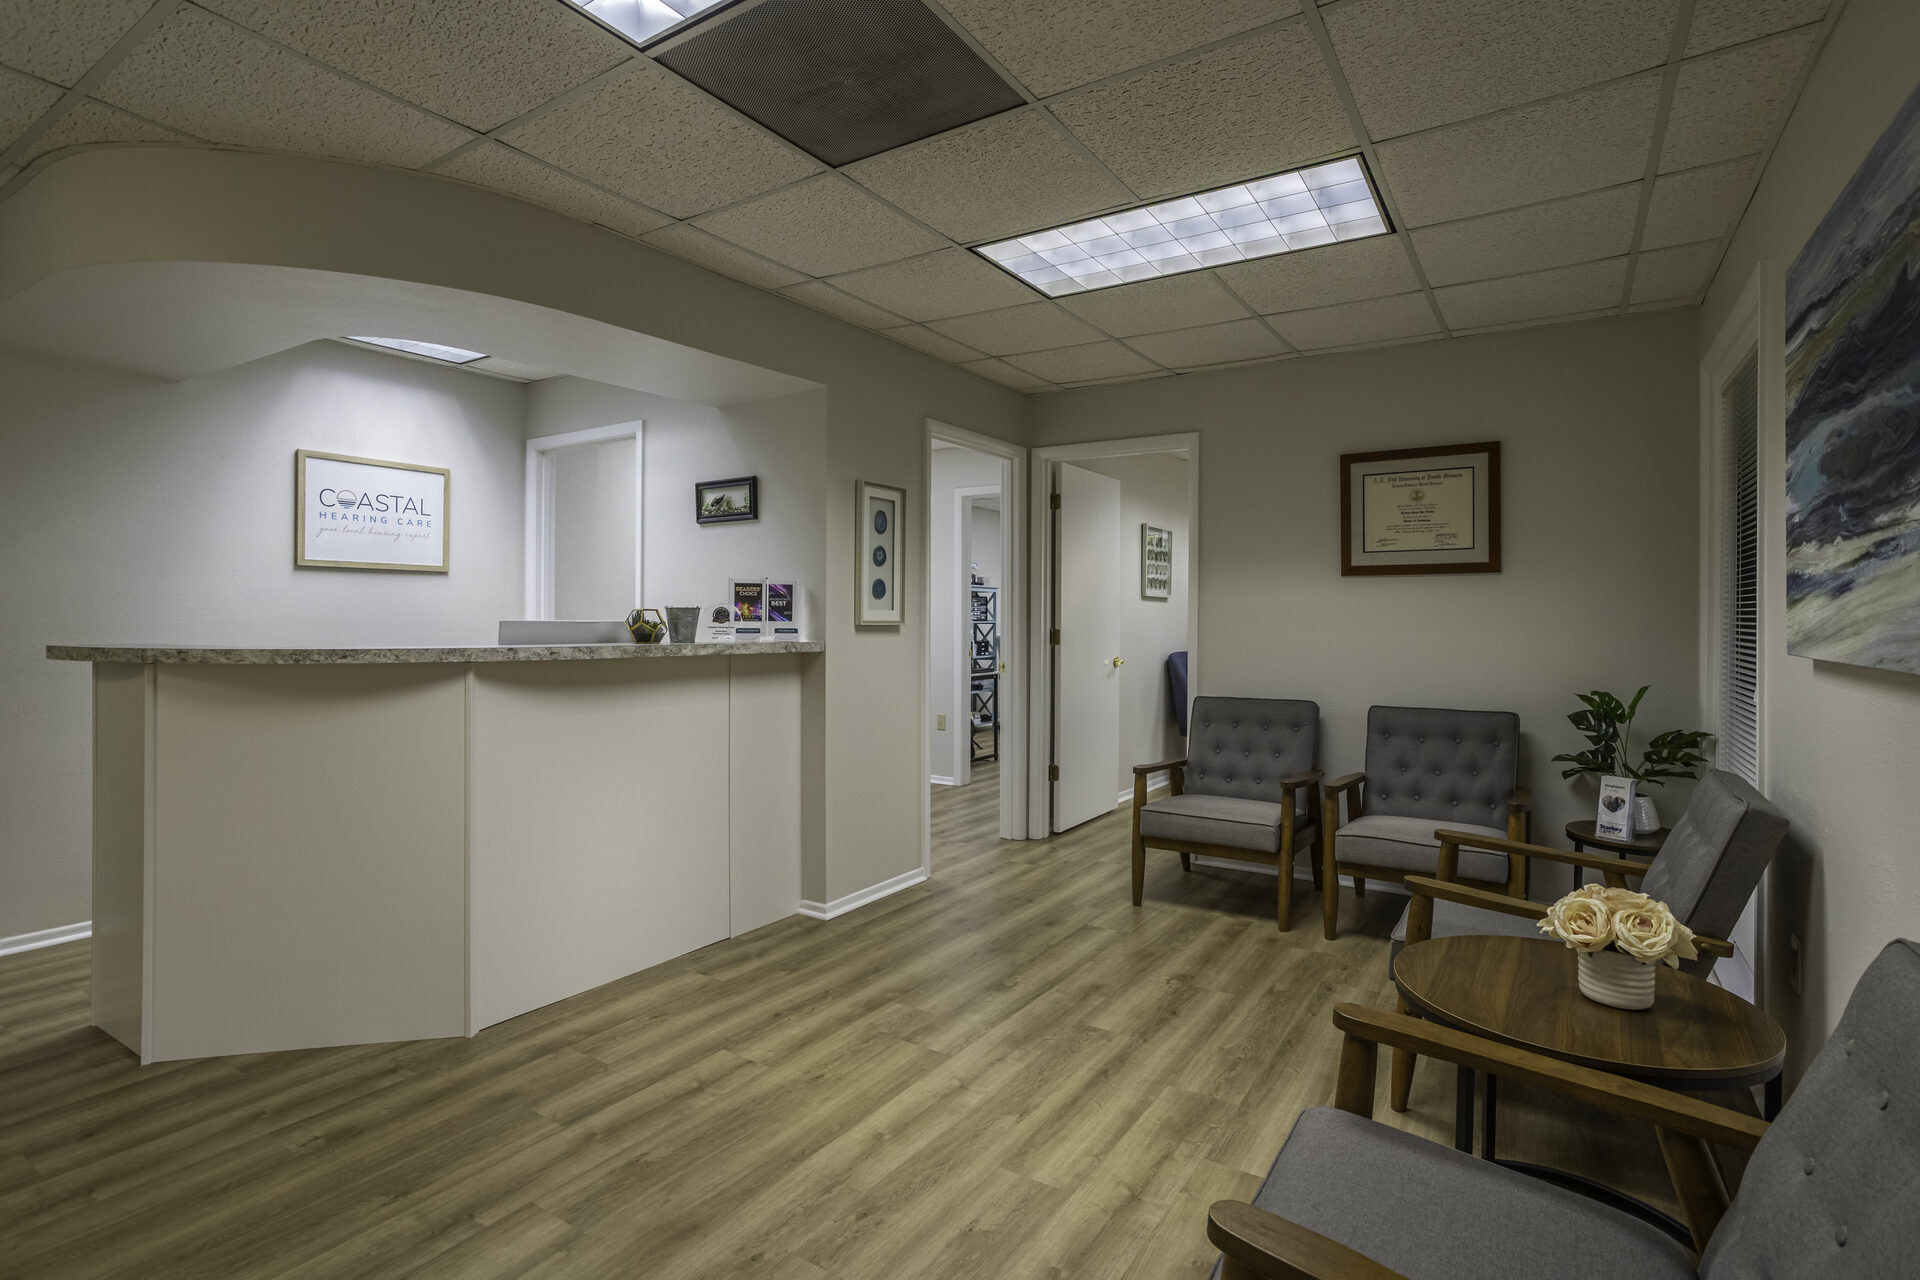
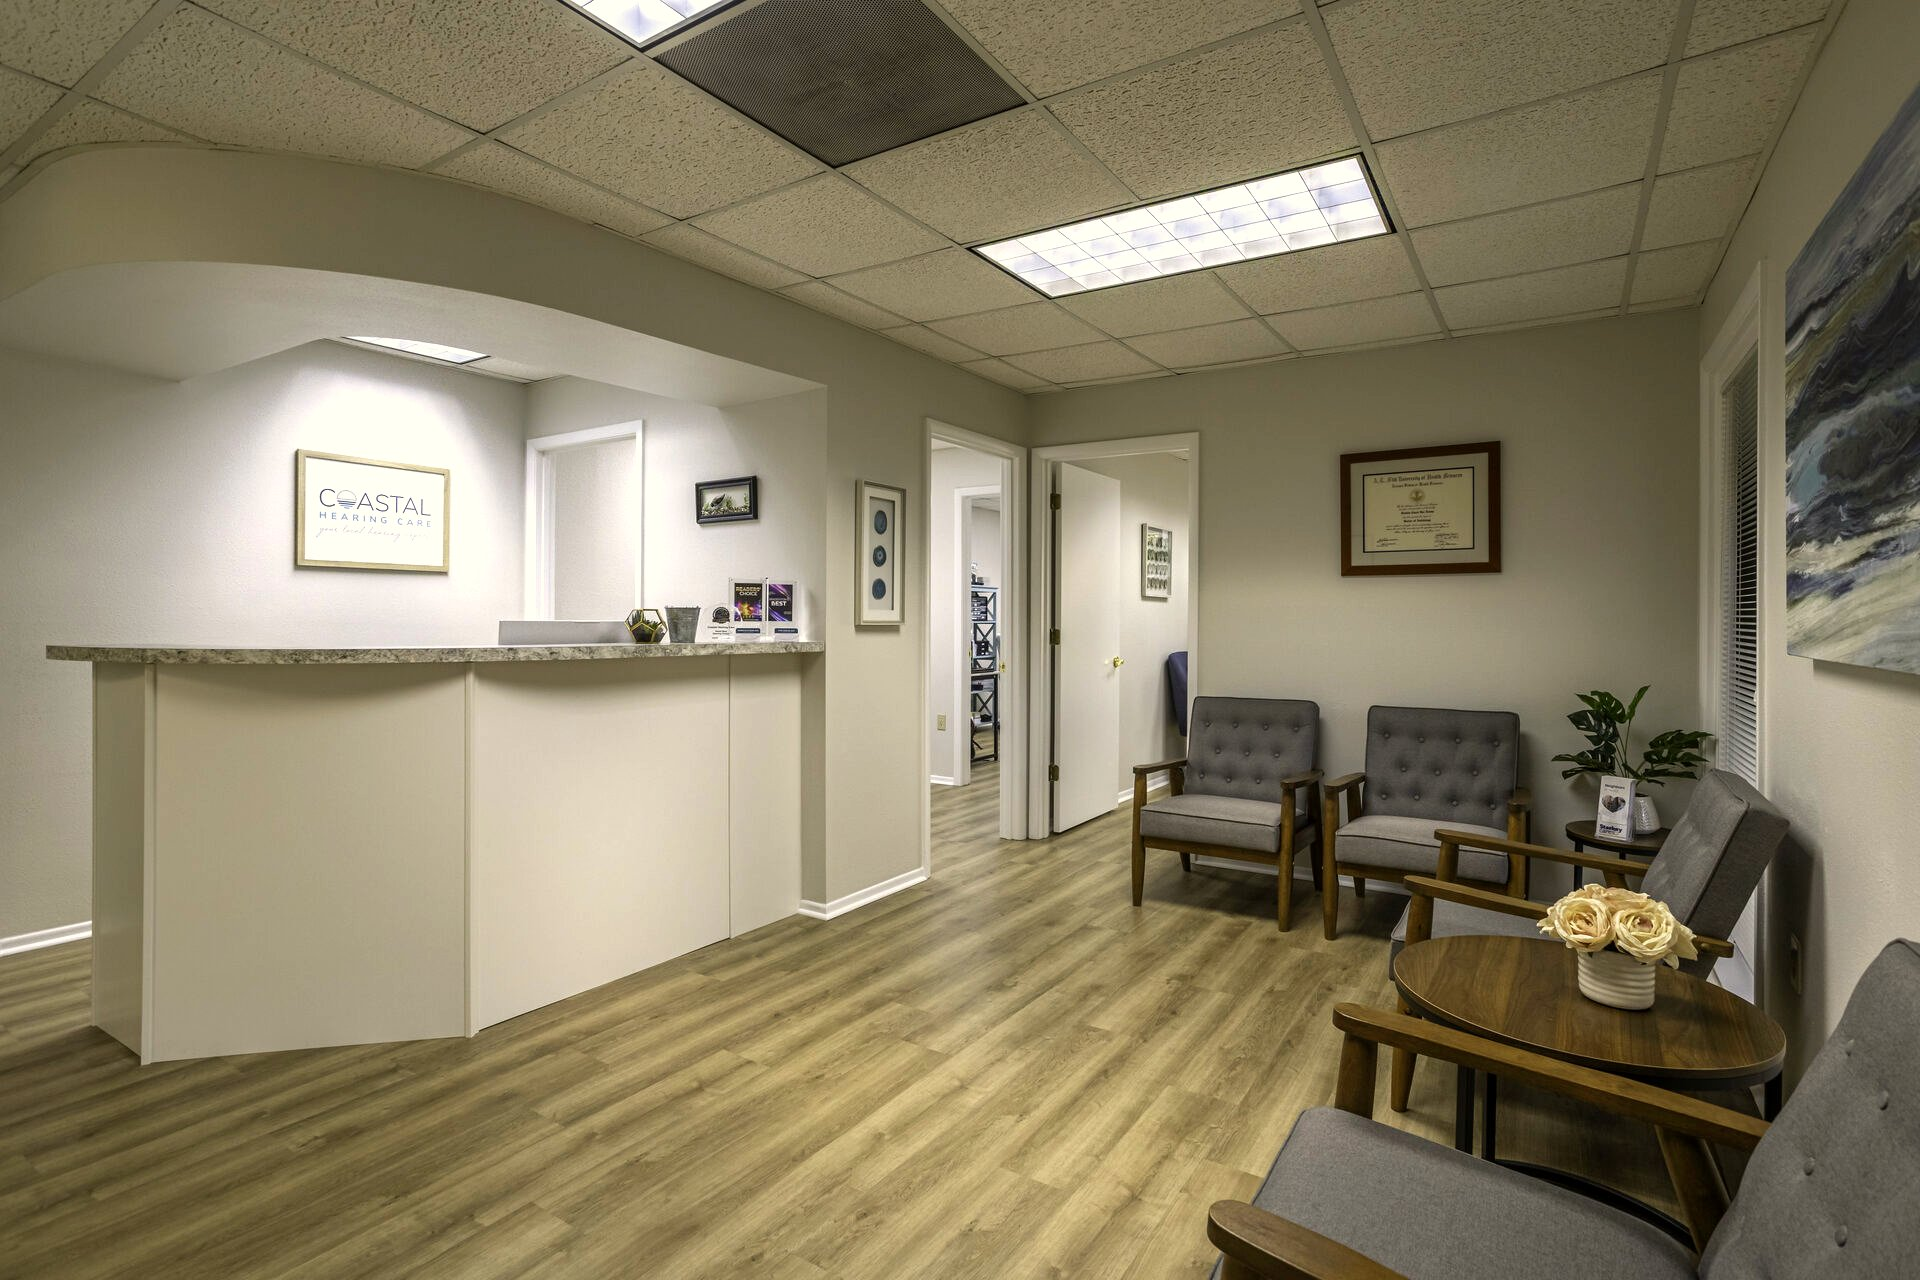
Kristin feedback round 1: home layout, team, images, page copy
Home
- Hero team photo aspect-ratio 3:2 with object-fit contain so full team visible edge to edge
- Site logo enlarged from 56px to 80px
- Schedule button text now visible (nav .btn color pinned to white for both states)
- Removed 'balance issues' from Comprehensive Hearing Testing card
- feature-image object-position center 15% so heads stay in frame
- Team names: Danielle De La Fuente -> Danielle Marshall, Arianna Bartolome -> Arianna Davis
- Jessica Ralidak title: Patient Care Coordinator -> Audiology Assistant
- Clinic interior brightened and warmed

About
- Same three name and title updates

Hearing aids
- Starkey description updated per client copy

Tinnitus
- 15 percent -> 1 in 7

Financing
- No sales pressure image swapped for audiologist reviewing audiogram with patient

Reviews
- One patient quote attribution updated from De La Fuente to Marshall

Source: Kristin DesErmia feedback Jul 15 2026

diff --git a/assets/css/style.css b/assets/css/style.css
@@ -139,7 +139,7 @@ p { margin: 0 0 1em; }
   padding: 18px 0;
   gap: 24px;
 }
-.site-logo img { height: 56px; width: auto; }
+.site-logo img { height: 80px; width: auto; }
 .site-nav ul {
   display: flex;
   gap: 26px;
@@ -160,8 +160,10 @@ p { margin: 0 0 1em; }
   color: var(--color-accent);
   border-bottom-color: var(--color-accent);
 }
-.site-nav .btn { padding: 10px 20px; }
-.site-nav .btn:hover { border-bottom-color: var(--color-accent-dark); }
+.site-nav .btn { padding: 10px 20px; color: var(--color-white); }
+.site-nav .btn:hover { border-bottom-color: var(--color-accent-dark); color: var(--color-white); }
+.site-nav a.btn-primary { color: var(--color-white); }
+.site-nav a.btn-primary:hover { color: var(--color-white); }
 
 .menu-toggle {
   display: none;
@@ -211,9 +213,10 @@ p { margin: 0 0 1em; }
   border-radius: var(--radius-lg);
   overflow: hidden;
   box-shadow: var(--shadow-lg);
-  aspect-ratio: 4 / 5;
+  aspect-ratio: 3 / 2;
+  background: var(--color-bg-soft);
 }
-.hero-image img { width: 100%; height: 100%; object-fit: cover; }
+.hero-image img { width: 100%; height: 100%; object-fit: contain; background: var(--color-bg-soft); }
 .hero-stats {
   display: grid;
   grid-template-columns: repeat(3, 1fr);
@@ -379,7 +382,7 @@ p { margin: 0 0 1em; }
   box-shadow: var(--shadow-md);
   aspect-ratio: 4 / 3;
 }
-.feature-image img { width: 100%; height: 100%; object-fit: cover; }
+.feature-image img { width: 100%; height: 100%; object-fit: cover; object-position: center 15%; }
 
 /* CTA band */
 .cta-band {

diff --git a/index.html b/index.html
@@ -109,7 +109,7 @@
       <div class="service-card">
         <div class="service-icon"><svg viewBox="0 0 24 24" fill="none" stroke="currentColor" stroke-width="2"><path d="M12 2a10 10 0 0 1 10 10c0 4-2 6-4 6a2 2 0 0 1-2-2v-4a4 4 0 0 0-8 0v4a2 2 0 0 1-2 2c-2 0-4-2-4-6A10 10 0 0 1 12 2z"/></svg></div>
         <h3>Comprehensive Hearing Testing</h3>
-        <p>State-of-the-art diagnostic testing to identify hearing loss, tinnitus, and balance issues with clarity and precision.</p>
+        <p>State-of-the-art diagnostic testing to identify hearing loss and tinnitus with clarity and precision.</p>
         <a href="/coastal-hearing-care-preview/services/" class="service-link">About Hearing Testing</a>
       </div>
       <div class="service-card">
@@ -181,16 +181,16 @@
         <div class="team-info"><h3>Dr. Kristin DesErmia</h3><p class="team-title">Doctor of Audiology, Owner</p></div>
       </div>
       <div class="team-card">
-        <div class="team-photo"><img src="/coastal-hearing-care-preview/assets/team/danielle-1.jpg" alt="Dr. Danielle De La Fuente"></div>
-        <div class="team-info"><h3>Dr. Danielle De La Fuente</h3><p class="team-title">Doctor of Audiology</p></div>
+        <div class="team-photo"><img src="/coastal-hearing-care-preview/assets/team/danielle-1.jpg" alt="Dr. Danielle Marshall"></div>
+        <div class="team-info"><h3>Dr. Danielle Marshall</h3><p class="team-title">Doctor of Audiology</p></div>
       </div>
       <div class="team-card">
-        <div class="team-photo"><img src="/coastal-hearing-care-preview/assets/team/arianna-1.jpg" alt="Dr. Arianna Bartolome"></div>
-        <div class="team-info"><h3>Dr. Arianna Bartolome</h3><p class="team-title">Doctor of Audiology</p></div>
+        <div class="team-photo"><img src="/coastal-hearing-care-preview/assets/team/arianna-1.jpg" alt="Dr. Arianna Davis"></div>
+        <div class="team-info"><h3>Dr. Arianna Davis</h3><p class="team-title">Doctor of Audiology</p></div>
       </div>
       <div class="team-card">
-        <div class="team-photo"><img src="/coastal-hearing-care-preview/assets/team/jessica.jpg" alt="Jessica Ralidak, Patient Care Coordinator"></div>
-        <div class="team-info"><h3>Jessica Ralidak</h3><p class="team-title">Patient Care Coordinator</p></div>
+        <div class="team-photo"><img src="/coastal-hearing-care-preview/assets/team/jessica.jpg" alt="Jessica Ralidak, Audiology Assistant"></div>
+        <div class="team-info"><h3>Jessica Ralidak</h3><p class="team-title">Audiology Assistant</p></div>
       </div>
     </div>
     <div class="text-center mt-lg">

diff --git a/about/index.html b/about/index.html
@@ -121,17 +121,17 @@
         </div>
       </div>
       <div class="team-card">
-        <div class="team-photo"><img src="/coastal-hearing-care-preview/assets/team/danielle-1.jpg" alt="Dr. Danielle De La Fuente"></div>
+        <div class="team-photo"><img src="/coastal-hearing-care-preview/assets/team/danielle-1.jpg" alt="Dr. Danielle Marshall"></div>
         <div class="team-info">
-          <h3>Dr. Danielle De La Fuente</h3>
+          <h3>Dr. Danielle Marshall</h3>
           <p class="team-title">Doctor of Audiology</p>
           <p style="margin-top:12px;font-size:0.9rem;color:var(--color-text-muted);">Compassionate provider focused on patient education and long-term hearing outcomes.</p>
         </div>
       </div>
       <div class="team-card">
-        <div class="team-photo"><img src="/coastal-hearing-care-preview/assets/team/arianna-1.jpg" alt="Dr. Arianna Bartolome"></div>
+        <div class="team-photo"><img src="/coastal-hearing-care-preview/assets/team/arianna-1.jpg" alt="Dr. Arianna Davis"></div>
         <div class="team-info">
-          <h3>Dr. Arianna Bartolome</h3>
+          <h3>Dr. Arianna Davis</h3>
           <p class="team-title">Doctor of Audiology</p>
           <p style="margin-top:12px;font-size:0.9rem;color:var(--color-text-muted);">Expert in diagnostic testing, hearing aid fittings, and tinnitus management.</p>
         </div>
@@ -145,10 +145,10 @@
         </div>
       </div>
       <div class="team-card">
-        <div class="team-photo"><img src="/coastal-hearing-care-preview/assets/team/jessica.jpg" alt="Jessica Ralidak"></div>
+        <div class="team-photo"><img src="/coastal-hearing-care-preview/assets/team/jessica.jpg" alt="Jessica Ralidak, Audiology Assistant"></div>
         <div class="team-info">
           <h3>Jessica Ralidak</h3>
-          <p class="team-title">Patient Care Coordinator</p>
+          <p class="team-title">Audiology Assistant</p>
           <p style="margin-top:12px;font-size:0.9rem;color:var(--color-text-muted);">Helps patients navigate scheduling, insurance, and hearing aid support.</p>
         </div>
       </div>

diff --git a/financing/index.html b/financing/index.html
@@ -92,7 +92,7 @@
   <div class="container">
     <div class="feature-block">
       <div class="feature-image">
-        <img src="/coastal-hearing-care-preview/assets/images/consult.jpg" alt="Patient consultation at Coastal Hearing Care">
+        <img src="/coastal-hearing-care-preview/assets/images/audiogram-education.jpg" alt="Audiologist reviewing an audiogram with a patient at Coastal Hearing Care">
       </div>
       <div>
         <p class="eyebrow">Honest Pricing</p>

diff --git a/hearing-aids/index.html b/hearing-aids/index.html
@@ -90,7 +90,7 @@
       <div class="service-card"><h3>Widex</h3><p>Natural sound quality and PureSound processing.</p></div>
       <div class="service-card"><h3>Signia</h3><p>Own Voice Processing and augmented listening features.</p></div>
       <div class="service-card"><h3>ReSound</h3><p>Direct-to-iPhone streaming and All Access Directionality.</p></div>
-      <div class="service-card"><h3>Starkey</h3><p>Health-tracking hearing aids with fall detection and language translation.</p></div>
+      <div class="service-card"><h3>Starkey</h3><p>Excels at speech clarity, advanced AI, and highly personalized listening experiences.</p></div>
     </div>
   </div>
 </section>

diff --git a/reviews/index.html b/reviews/index.html
@@ -69,7 +69,7 @@
       <div class="review-card"><div class="review-stars">&#9733;&#9733;&#9733;&#9733;&#9733;</div><p class="review-body">"The Hearing Aid Refresh program brought new life to my current devices. I did not need new hearing aids after all, and I appreciated the honesty."</p><p class="review-author">James K., Bradenton</p></div>
       <div class="review-card"><div class="review-stars">&#9733;&#9733;&#9733;&#9733;&#9733;</div><p class="review-body">"The whole team is warm, professional, and knowledgeable. From the front desk to the audiologists, every visit is a great experience."</p><p class="review-author">Patricia L., Sarasota</p></div>
       <div class="review-card"><div class="review-stars">&#9733;&#9733;&#9733;&#9733;&#9733;</div><p class="review-body">"After years of struggling in restaurants, my new hearing aids from Coastal have transformed my social life. I cannot recommend them highly enough."</p><p class="review-author">Michael R., Lakewood Ranch</p></div>
-      <div class="review-card"><div class="review-stars">&#9733;&#9733;&#9733;&#9733;&#9733;</div><p class="review-body">"Dr. De La Fuente is patient, thorough, and takes real time to answer questions. It is clear she cares about her patients and their outcomes."</p><p class="review-author">Linda W., Bradenton</p></div>
+      <div class="review-card"><div class="review-stars">&#9733;&#9733;&#9733;&#9733;&#9733;</div><p class="review-body">"Dr. Marshall is patient, thorough, and takes real time to answer questions. It is clear she cares about her patients and their outcomes."</p><p class="review-author">Linda W., Bradenton</p></div>
       <div class="review-card"><div class="review-stars">&#9733;&#9733;&#9733;&#9733;&#9733;</div><p class="review-body">"I have been to other clinics, and none compare to Coastal Hearing Care. The technology they use and their attention to detail is on another level."</p><p class="review-author">Thomas G., Bradenton</p></div>
       <div class="review-card"><div class="review-stars">&#9733;&#9733;&#9733;&#9733;&#9733;</div><p class="review-body">"They fit me with custom hearing protection for concerts and I could not be happier. Perfect fit, excellent sound quality, and helpful staff."</p><p class="review-author">Anthony D., Sarasota</p></div>
       <div class="review-card"><div class="review-stars">&#9733;&#9733;&#9733;&#9733;&#9733;</div><p class="review-body">"My tinnitus was making it hard to sleep. The plan they put together made a real difference within weeks. Truly life changing."</p><p class="review-author">Barbara S., Lakewood Ranch</p></div>

diff --git a/tinnitus/index.html b/tinnitus/index.html
@@ -57,7 +57,7 @@
   <div class="container">
     <p class="eyebrow">Tinnitus Care</p>
     <h1>Ringing in your ears? You are not alone.</h1>
-    <p>Roughly 15 percent of adults experience tinnitus. It is real, it is common, and there are proven ways to manage it.</p>
+    <p>Roughly 1 in 7 adults experience tinnitus. It is real, it is common, and there are proven ways to manage it.</p>
   </div>
 </section>
 